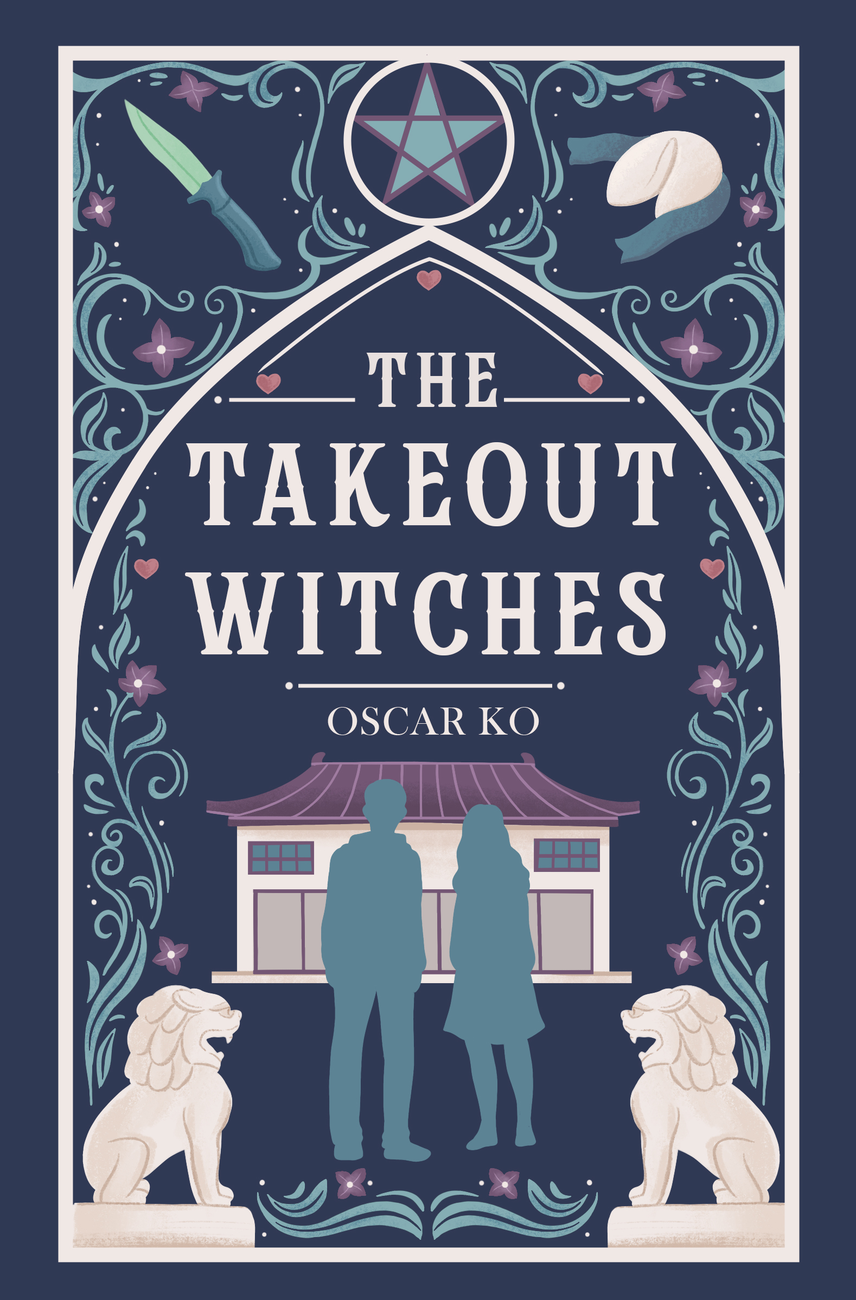
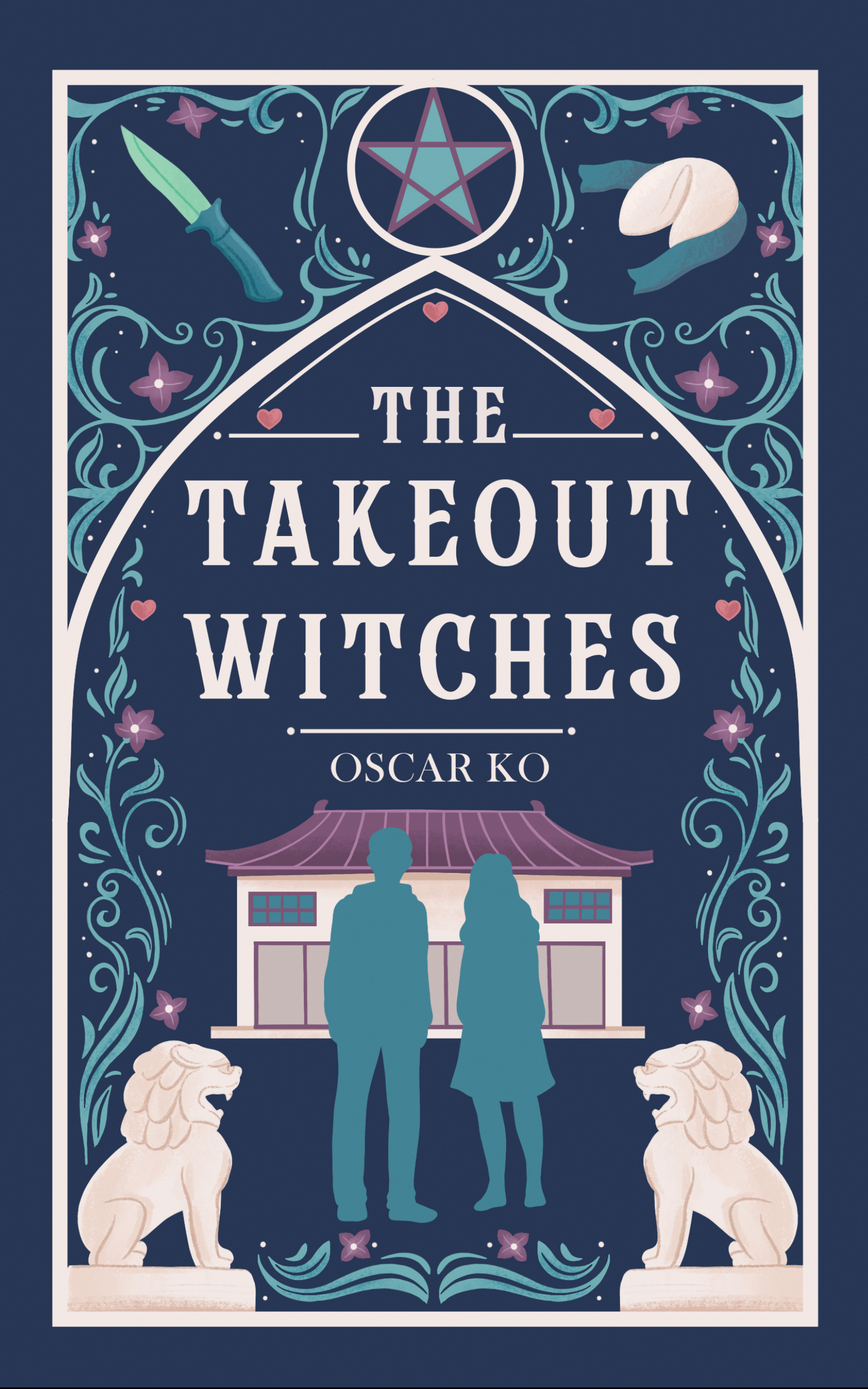
Better cover vibrancy + added shadows to book covers to look like books.

diff --git a/styles.css b/styles.css
@@ -26,19 +26,21 @@ ul.menu {
     justify-content: center;
     height: 100%;
     margin: 0 auto;
-    gap: 1px;
-    border-bottom: 1px solid white;
+    padding: 0 4px;
+    gap: 8px;
 }
 
 .flex-container>div {
-    background: #f1ebe1;
+    background: #ffffff;
 }
 
 
 .book-cover {
     width: 100%;
-    margin: 0;
+    margin: 6px 0;
     padding: 0;
+    -webkit-box-shadow: 0px 3px 4px 0px rgba(0, 0, 0, 0.65);
+    box-shadow: 0px 3px 4px 0px rgba(0, 0, 0, 0.65);
 }
 
 .substack {
